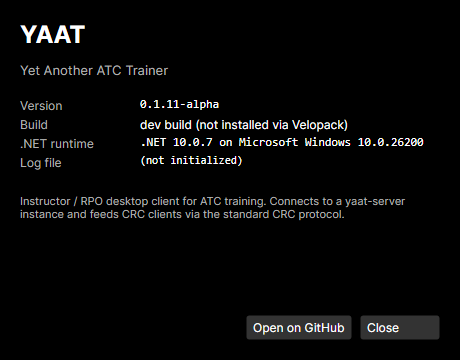
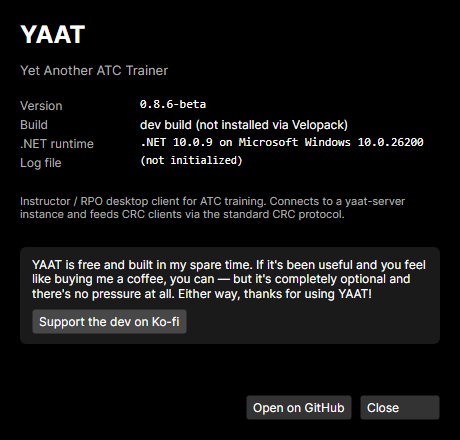
feat: optional Ko-fi support link in Help > About
Add a subtle card in the About modal with a friendly, no-pressure
message and a "Support the dev on Ko-fi" button linking to
https://ko-fi.com/leftos. Copy makes clear YAAT is free and donating
is entirely optional.

diff --git a/src/Yaat.Client/Views/AboutWindow.axaml.cs b/src/Yaat.Client/Views/AboutWindow.axaml.cs
@@ -40,6 +40,12 @@ public partial class AboutWindow : Window
             openRepoBtn.Click += (_, _) => UrlLauncher.OpenInBrowser(DocLinks.Repo);
         }
 
+        var supportBtn = this.FindControl<Button>("SupportButton");
+        if (supportBtn is not null)
+        {
+            supportBtn.Click += (_, _) => UrlLauncher.OpenInBrowser(DocLinks.Donate);
+        }
+
         var closeBtn = this.FindControl<Button>("CloseButton");
         if (closeBtn is not null)
         {

diff --git a/src/Yaat.Client/Services/DocLinks.cs b/src/Yaat.Client/Services/DocLinks.cs
@@ -15,6 +15,9 @@ public static class DocLinks
     public static string Issues => $"{RepoUrl}/issues/new/choose";
     public static string Releases => $"{RepoUrl}/releases";
 
+    // Optional "buy me a coffee" support link surfaced in Help → About.
+    public static string Donate => "https://ko-fi.com/leftos";
+
     public static string GettingStarted => $"{RepoUrl}/blob/{Ref}/GETTING_STARTED.md";
     public static string UserGuide => $"{RepoUrl}/blob/{Ref}/USER_GUIDE.md";
     public static string Commands => $"{RepoUrl}/blob/{Ref}/COMMANDS.md";

diff --git a/CHANGELOG.md b/CHANGELOG.md
@@ -2,6 +2,9 @@
 
 ## Unreleased
 
+### Added
+- Help → About now has an optional **Support the dev on Ko-fi** link, with a note making clear that YAAT is free and donating is entirely optional.
+
 ### Fixed
 - Requesting a flight strip that already exists prints a duplicate that stacks in the printer, so a lost or late strip can be reprinted.
 - Amending a flight plan prints a new revised strip and clears stale printer copies, leaving strips already filed into a bay untouched.